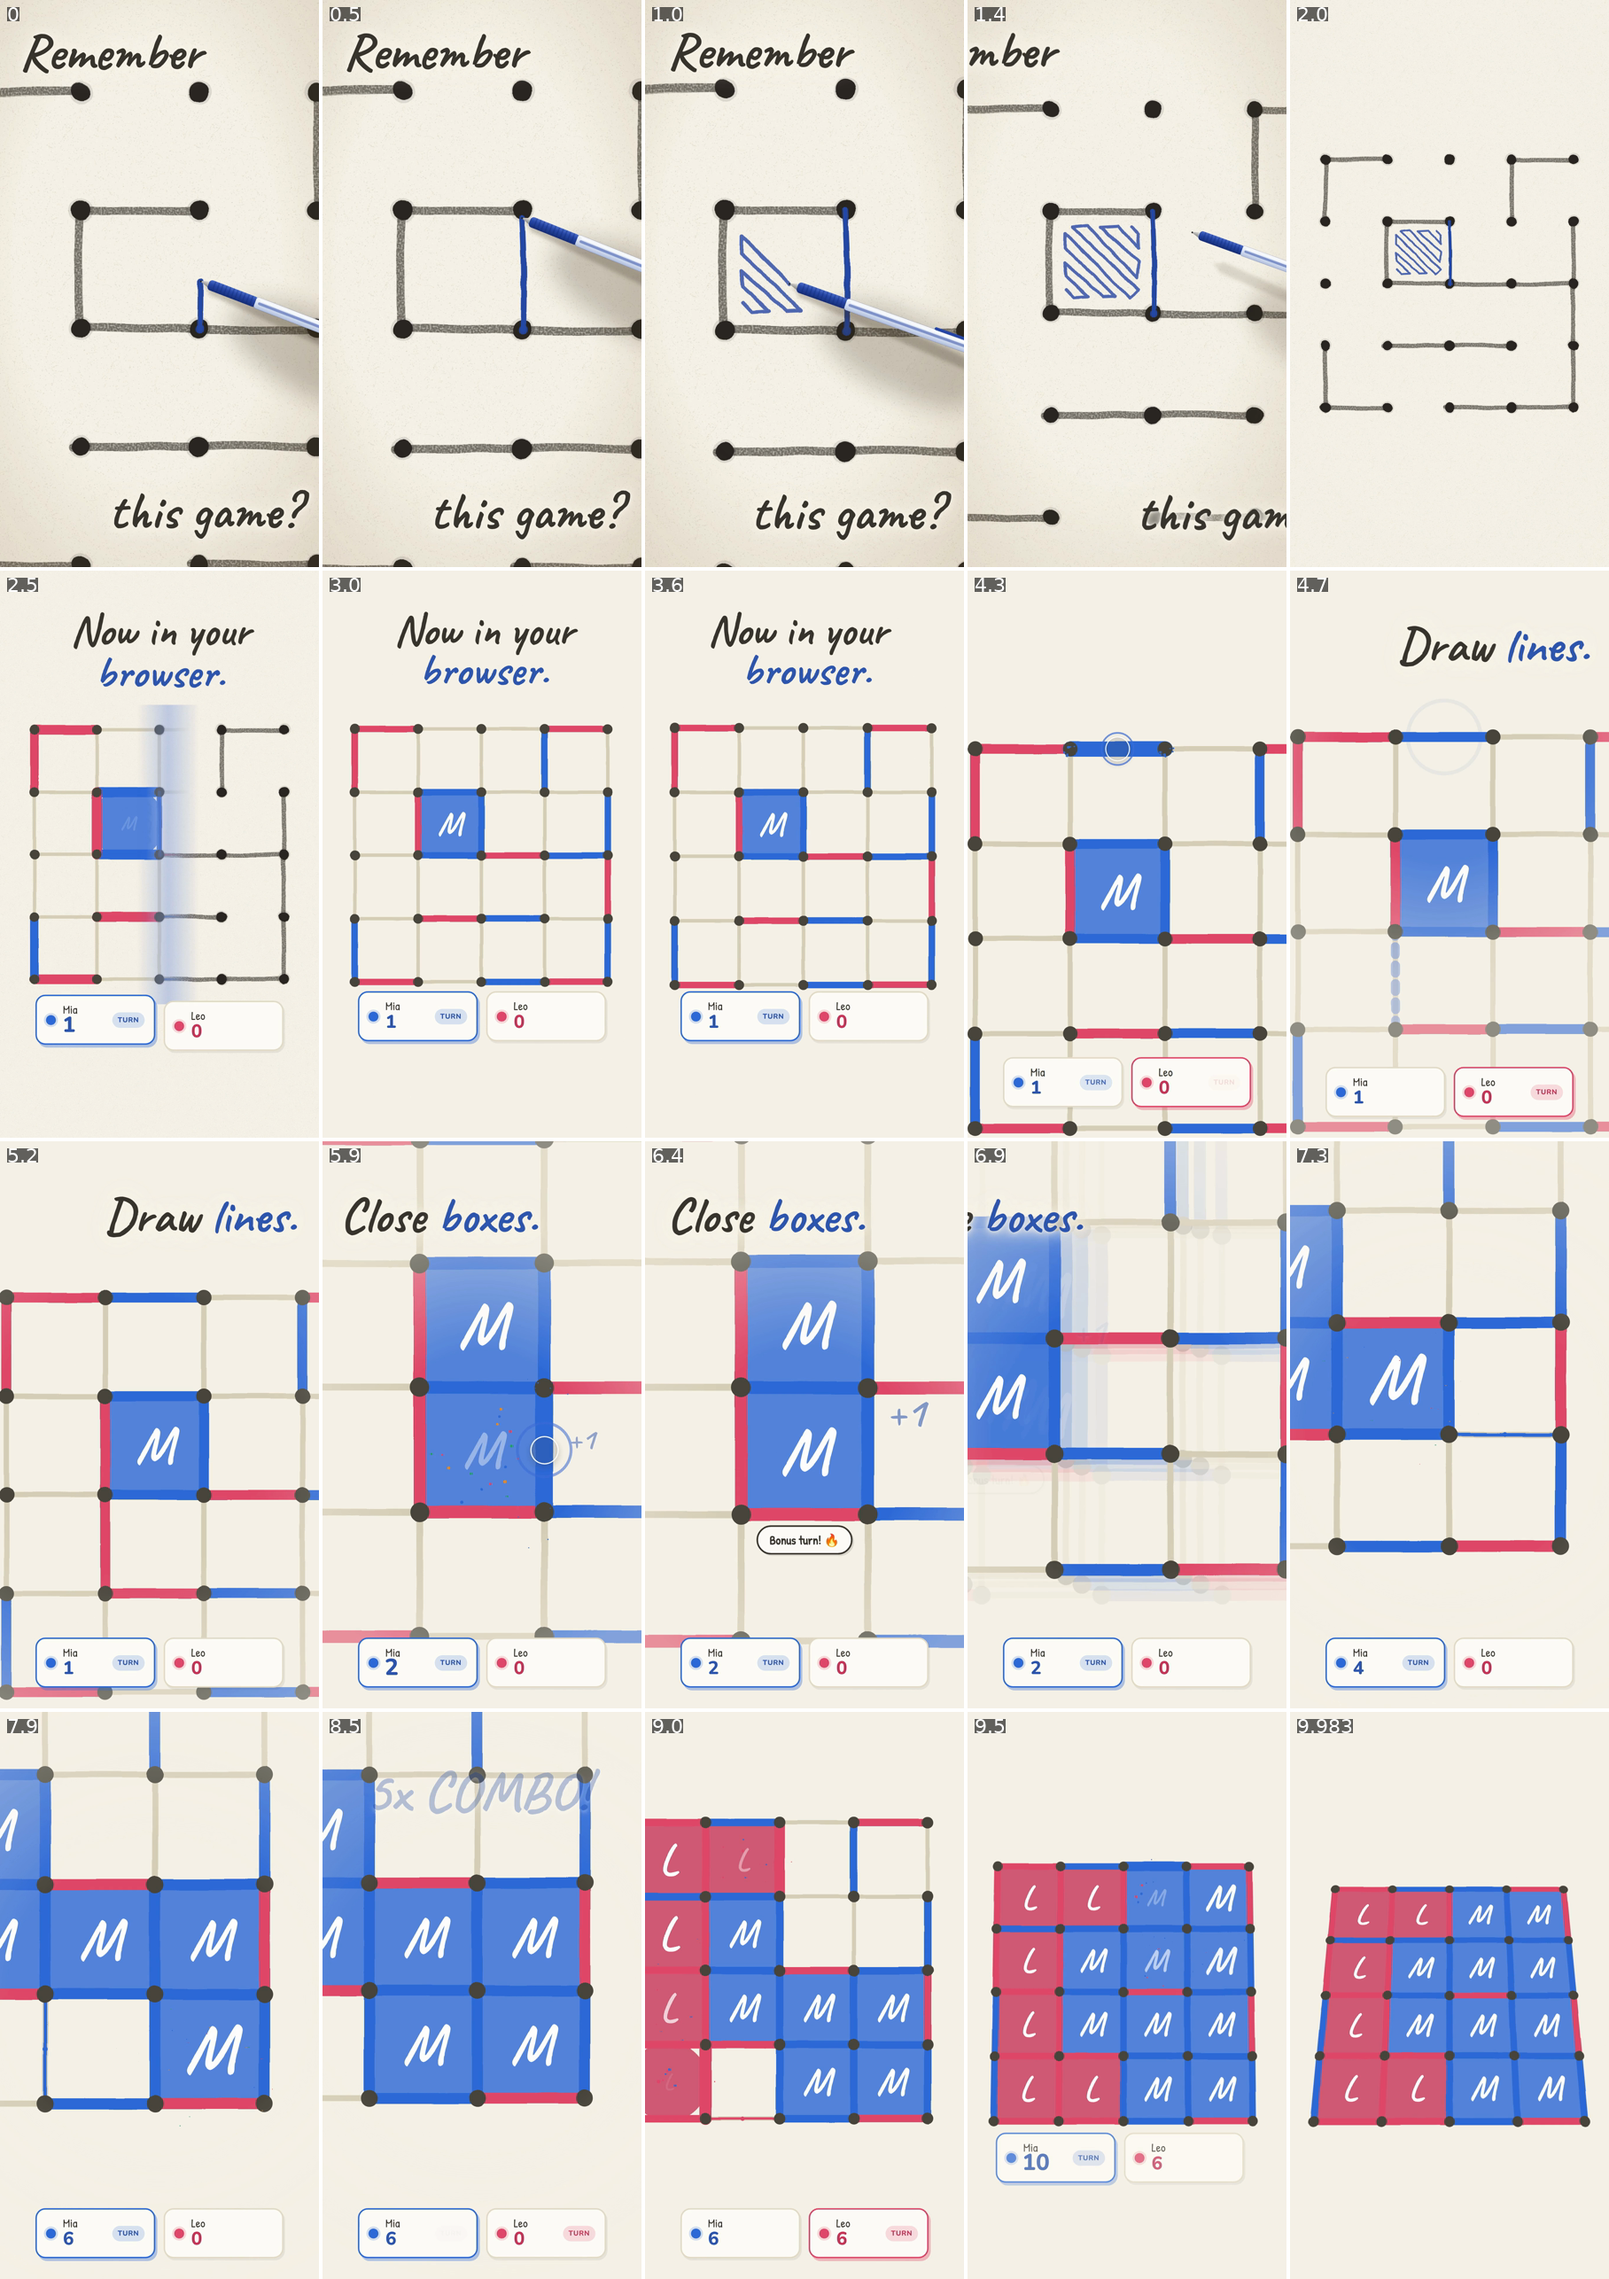
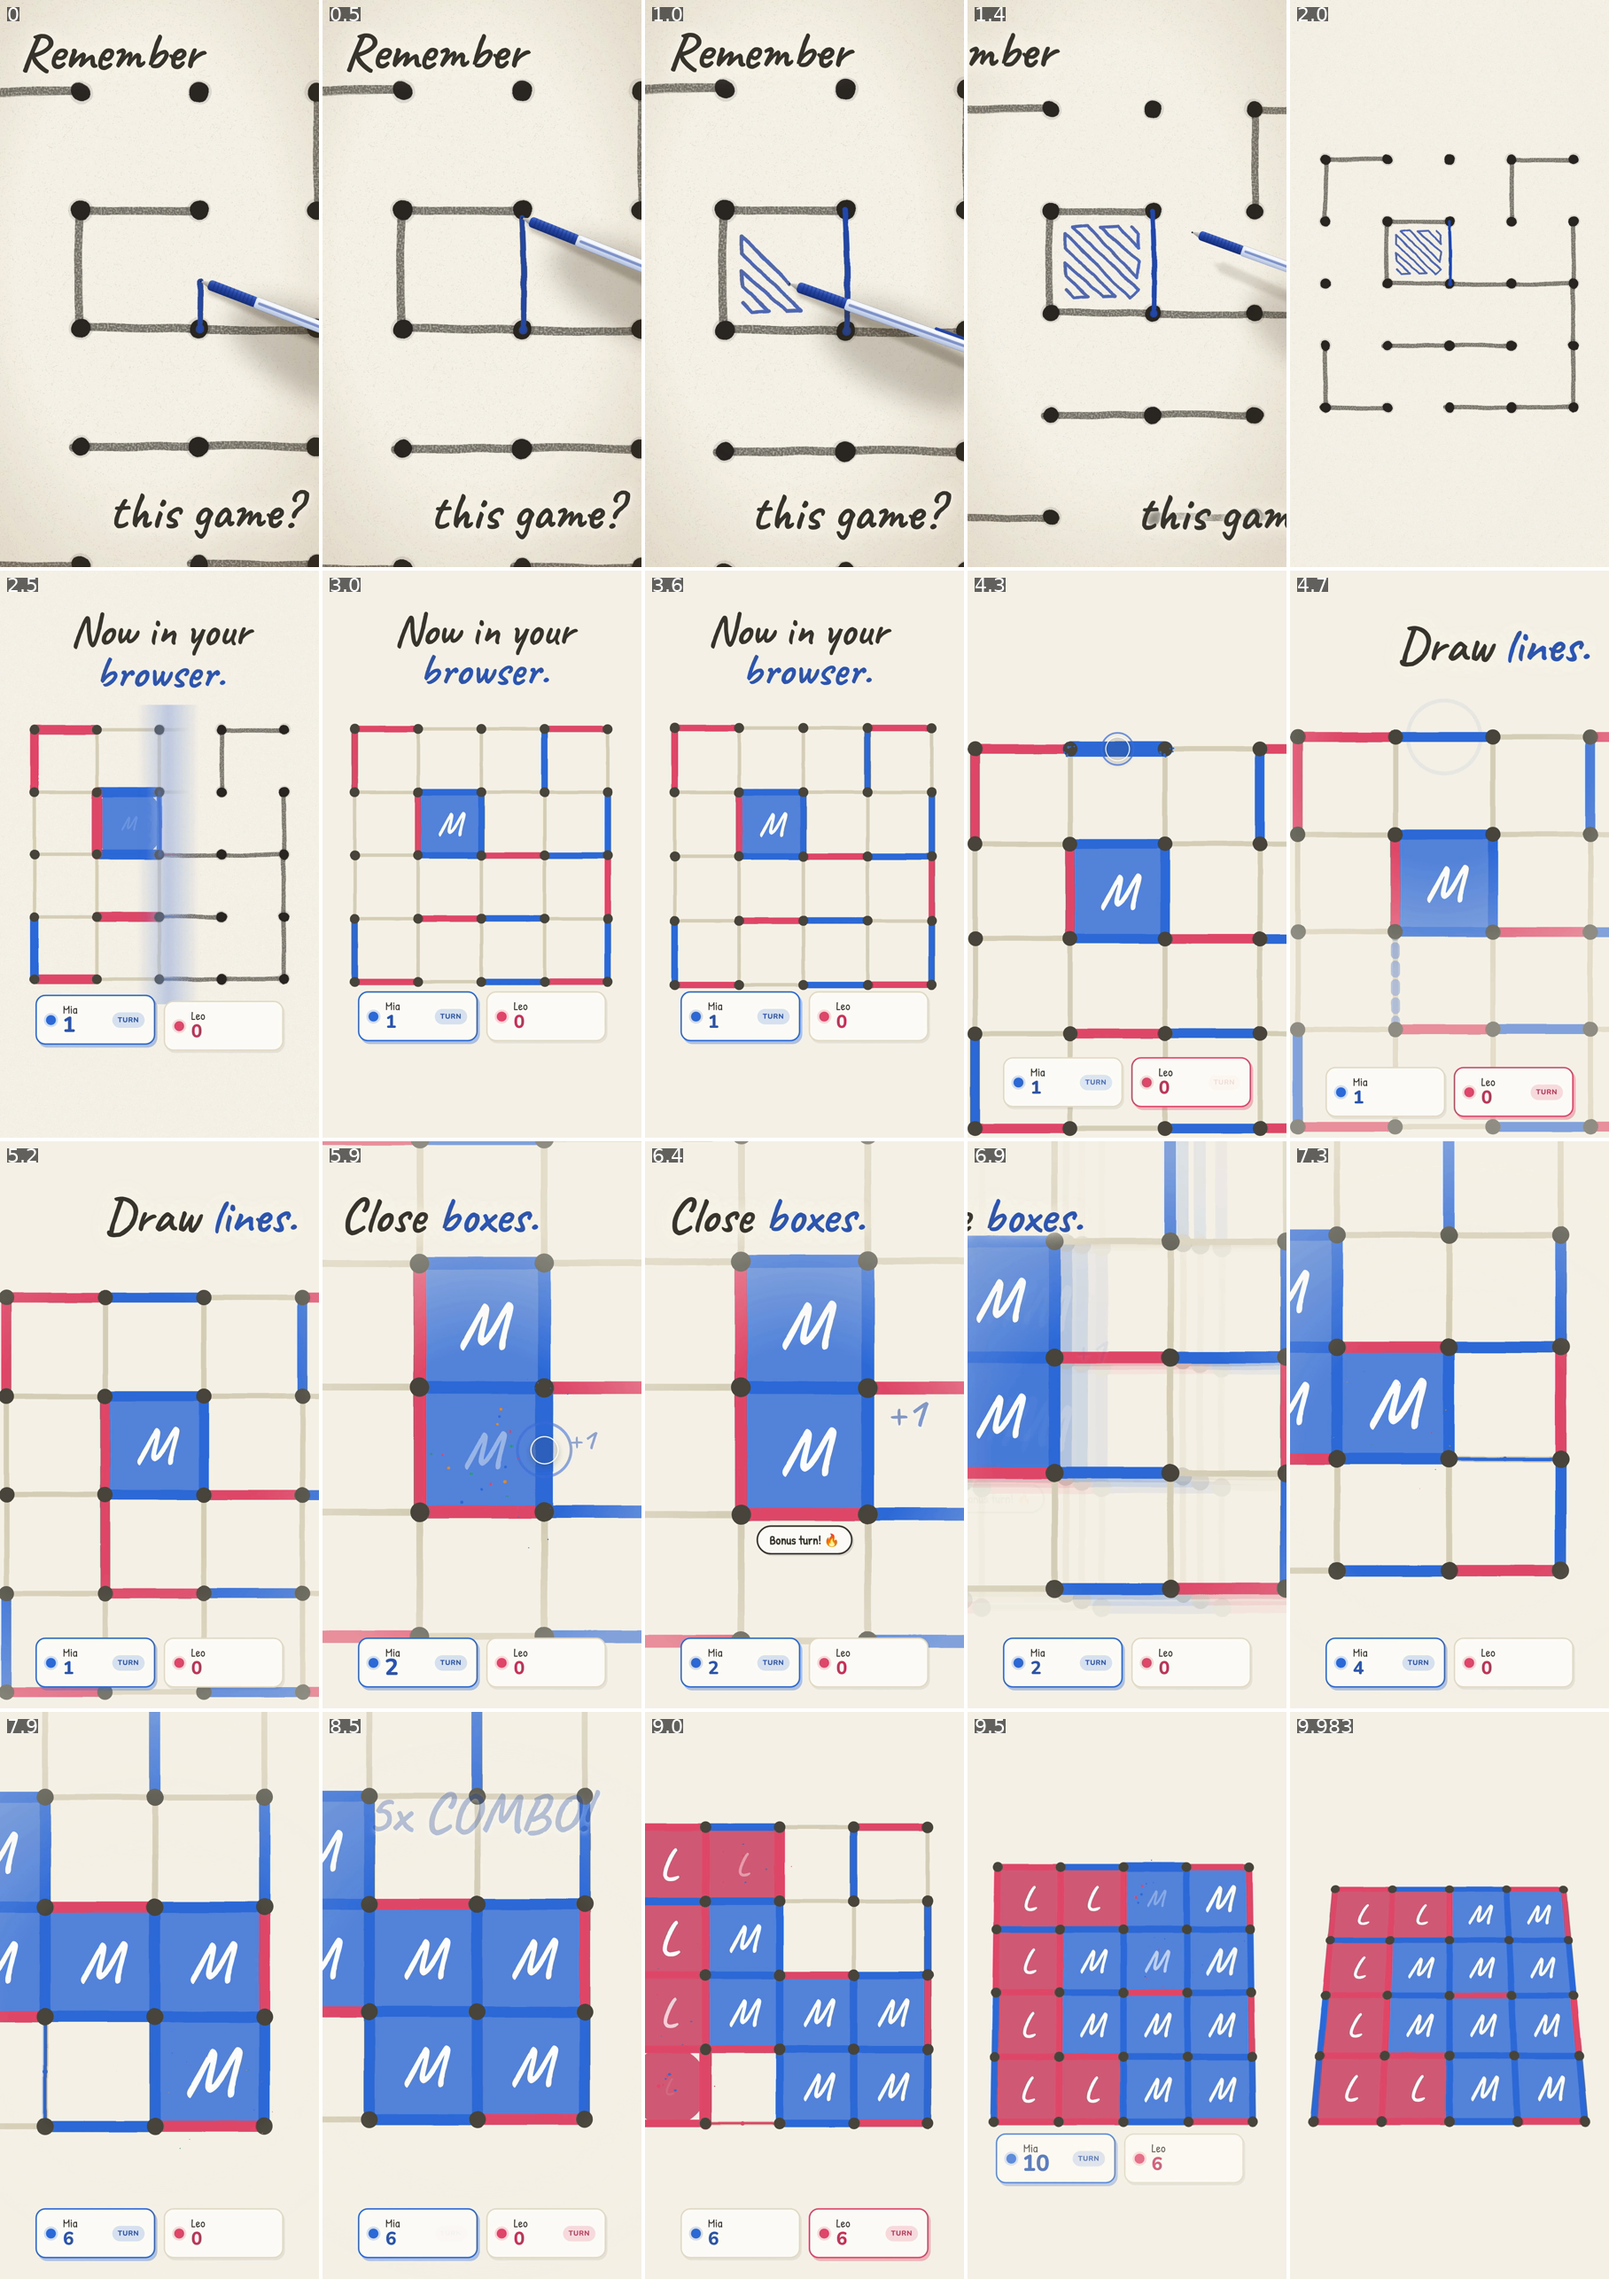
Board module: paper to app to chain combo to tilt (s01-s05)
Claude-Session: https://claude.ai/code/session_015djpT82mPv6pF3coxQuzAb

diff --git a/promo/scenes/score3d.js b/promo/scenes/score3d.js
@@ -194,17 +194,17 @@ export default {
       let tgt = b.tgt, el = b.el, az = b.az, D = b.D, fov = fov0;
       if (t > T_DIVE) {
         // camera dive onto the top face of Mia's tower: accelerating, face-on, FOV narrows a little
-        const u = seg(t, T_DIVE, T_BLUE - 0.03);
+        const u = seg(t, T_DIVE, T_BLUE - 0.085);
         place(b.tgt, b.el, b.az, b.D);
         const o = camera.position.clone().sub(face), d0 = o.length();
         const el0 = Math.asin(o.y / d0), az0 = Math.atan2(o.x, o.z);
         const fov1 = fov0 * 0.8;
         const tanMax = Math.tan(fov1 * Math.PI / 360) * Math.max(1, W / H);
         const d1 = 0.62 * (s / 2 - L.cubeR) / tanMax;
-        const eo = smoother(u), ed = Math.pow(u, 2.3);
+        const eo = smoother(u), ed = Math.pow(u, 2.0);
         tgt = b.tgt.clone().lerp(face, smoother(clamp(u * 1.15)));
         el = lerp(el0, 84 * Math.PI / 180, eo); az = lerp(az0, 0, eo);
-        const dd = d0 * Math.pow(d1 / d0, ed);
+        const dd = d0 * Math.pow(d1 / d0, ed) * (1 - 0.06 * seg(t, T_BLUE - 0.085, T_BLUE));  // keep creeping in while the face turns flat blue
         fov = lerp(fov0, fov1, smooth(u));
         camera.fov = fov; camera.updateProjectionMatrix();
         place(tgt, el, az, dd);

diff --git a/promo/scenes/score3d-layout.js b/promo/scenes/score3d-layout.js
@@ -38,8 +38,8 @@ export function cfg(V, k) {
       cam: {
         el: keys([68, 57, 50, 45, 40, 38, 37]),
         az: keys([0, 7, 13, 18, 22, 25, 26]),
-        dist: keys([1800, 1330, 1400, 1480, 1380, 1320, 1300]),
-        tx: keys([0, 70, 20, 10, 80, 115, 125]),
+        dist: keys([1800, 1330, 1400, 1480, 1420, 1370, 1350]),
+        tx: keys([0, 70, 20, 20, 120, 160, 170]),
         ty: keys([0, 50, 100, 150, 175, 185, 190]),
         tz: keys([0, 10, 20, 30, 45, 50, 52]),
       },
@@ -55,10 +55,10 @@ export function cfg(V, k) {
     cam: {
       el: keys([68, 58, 52, 46, 41, 39, 38]),
       az: keys([0, 4, 7, 9, 11, 12, 12]),
-      dist: keys([1800, 1900, 1980, 2030, 1960, 1920, 1900]),
-      tx: keys([0, -20, -40, -50, -50, -50, -50]),
-      ty: keys([0, 60, 120, 170, 200, 210, 212]),
-      tz: keys([0, 120, 220, 290, 320, 330, 332]),
+      dist: keys([1800, 2100, 2250, 2280, 2220, 2180, 2160]),
+      tx: keys([0, -20, -40, -40, -30, -30, -30]),
+      ty: keys([0, -80, -170, -250, -290, -300, -300]),
+      tz: keys([0, 230, 400, 520, 580, 590, 592]),
     },
     winSize: 132, winFrom: -160,
     // centred, above Mia's chip

diff --git a/promo/review/modes/critic2.md b/promo/review/modes/critic2.md
@@ -1,0 +1,37 @@
+# Critic 2 — modes (lab 0–9.5 / film 15.0–24.5)
+
+Evidence is in `critic2/`: sheet-{h,v}-1.png (every 0.1 s), d-*-{h,v}.png (1/30 s strips), f-*.png (native frames), crop-*.png, and diff-{h,v}.txt (frame-difference data).
+
+## Critic 1 items
+
+1. **V online too small: FIXED.** At 8.35 the phones are stacked at about 87 % of the frame width. The names are about 26 px tall and TURN about 20 px.
+2. **H "Computer" hits the bezel: FIXED.** The headline ends at x≈550 and the phone starts at x≈745, which leaves about 195 px.
+3. **"y" in "Play online" touches the phone: FIXED.** The descender ends at y≈165. The phone top is at y≈212 in V (47 px gap) and y≈230 in H.
+4. **No cause for mode changes: FIXED for menu travel, PARTLY overall.** A ripple on "‹ Back" appears at 3.20 and 5.80, and taps land on "Play vs Computer" at 3.9, "Hard" at 4.4, "Start Game" at 4.75, "Play Online" at 6.37 and "Join Room" at 7.7. Each push lasts about 0.25–0.3 s. What remains is new defect A below.
+5. **Board sizes: FIXED.** Pass & Play uses 4×4 dots, which is within F13. The setup shows "5×5 · 16 boxes" selected, and the vs Computer and online boards both have 5×5 dots, matching it.
+6. **Fill/+1: FIXED.** The deep fill is intentional. The "+1" now measures 5.98:1.
+7. **Floating blue bar / teal mix: FIXED.** A tap at 8.1 sends the line along a dashed path. It lands on the same edge on Leo's board at about 8.6, and TURN switches to Leo at the same moment. Green then wipes the line from the left end between 9.1 and 9.37, with no teal at any point. The end is clean: a still green line from 9.40.
+8. **Red TURN contrast: FIXED.** Settled readings are 5.4–5.5:1 for Leo, Computer and online. The orange TURN is 5.56, the grey hints 5.8–5.9, and the Computer score 5.43.
+9. **H 6.3–6.5 half-empty: STILL PRESENT and wider** (see B).
+10. **Low motion: FIXED.** No 0.1 s bin falls below 0.24 mean diff before the final hold, and the only still run is the intended end (9.40–9.50).
+
+## New defects
+
+**A. The online setup has actions without causes and a result that contradicts them (both aspects, 6.6–7.9).**
+- The room-code box is already on screen, and at 6.75 "K7QM2P" starts to type itself. Nothing taps "Create Room" first. In the game, the code appears after that tap, and all at once.
+- "Waiting for opponent to join…" shows before any code exists.
+- After "Join Room" at 7.7, both phones open a board that already has 10 lines drawn while the scores read 0–0. A room that was just joined starts with an empty board.
+
+**B. No headline for about 1.2 s (both aspects, 5.93–7.1 in H, 5.93–7.2 in V).** "vs Computer" exits and "Play online" only lands after the lobby is already moving. At 6.2 (H), the left 40 % of the frame is plain paper, and V has an empty band of about 250 px at the top. The whole room-code exchange plays without a label. There is a smaller version of the same gap at 3.17–3.6 (H).
+
+**C. The V online dashed trail runs through UI text (8.2–8.5).** On the lower phone, the vertical dashes cross "DOTS & BOXES" and Mia's "TURN" pill. This counts as text crossed by a moving element. Leo's phone also covers about 70 % of Mia's board, so the tap happens on the one visible row.
+
+**D. Minor.** At 9.00–9.03 the sharp line lifts about 25 px left of its dots, and a blurred copy stays on the board. For 2 frames this reads as a doubled line (crop-lift.png).
+
+No pops or frozen frames were found. The frame-diff spikes of 13–19 are all on deliberate pushes and zooms. All copy matches `index.html`, including "Pick a board and create a room…", "Enter the 6-character code your friend shared.", "⚙ Connection settings" and "Beat the bot". K7QM2P uses only letters from the F12 alphabet.
+
+## Verdict: ONE MORE PASS
+
+1. **Give online setup a cause and a clean start.** Tap "Create Room" at about 6.6 with a ripple. Show the code all at once, or type it in within 0.2 s, and only then show "Waiting…". After Join, open on an empty 5×5 board, or keep the lines drawn but label nothing that implies a fresh room. The simpler option is an empty board with Mia's first line as the move that crosses between phones.
+2. **Bring "Play online" in at about 6.0 (both aspects),** so the headline hands straight over from "vs Computer" with no unlabeled stretch longer than about 0.3 s. Close the 3.17–3.6 gap the same way.
+3. **In V, route the trail around text.** Send it down the gap between the phones' bezels and over the board only, or animate the line as a travelling solid segment with no trail. Keep at least 24 px clear of the header text and the TURN pills.
